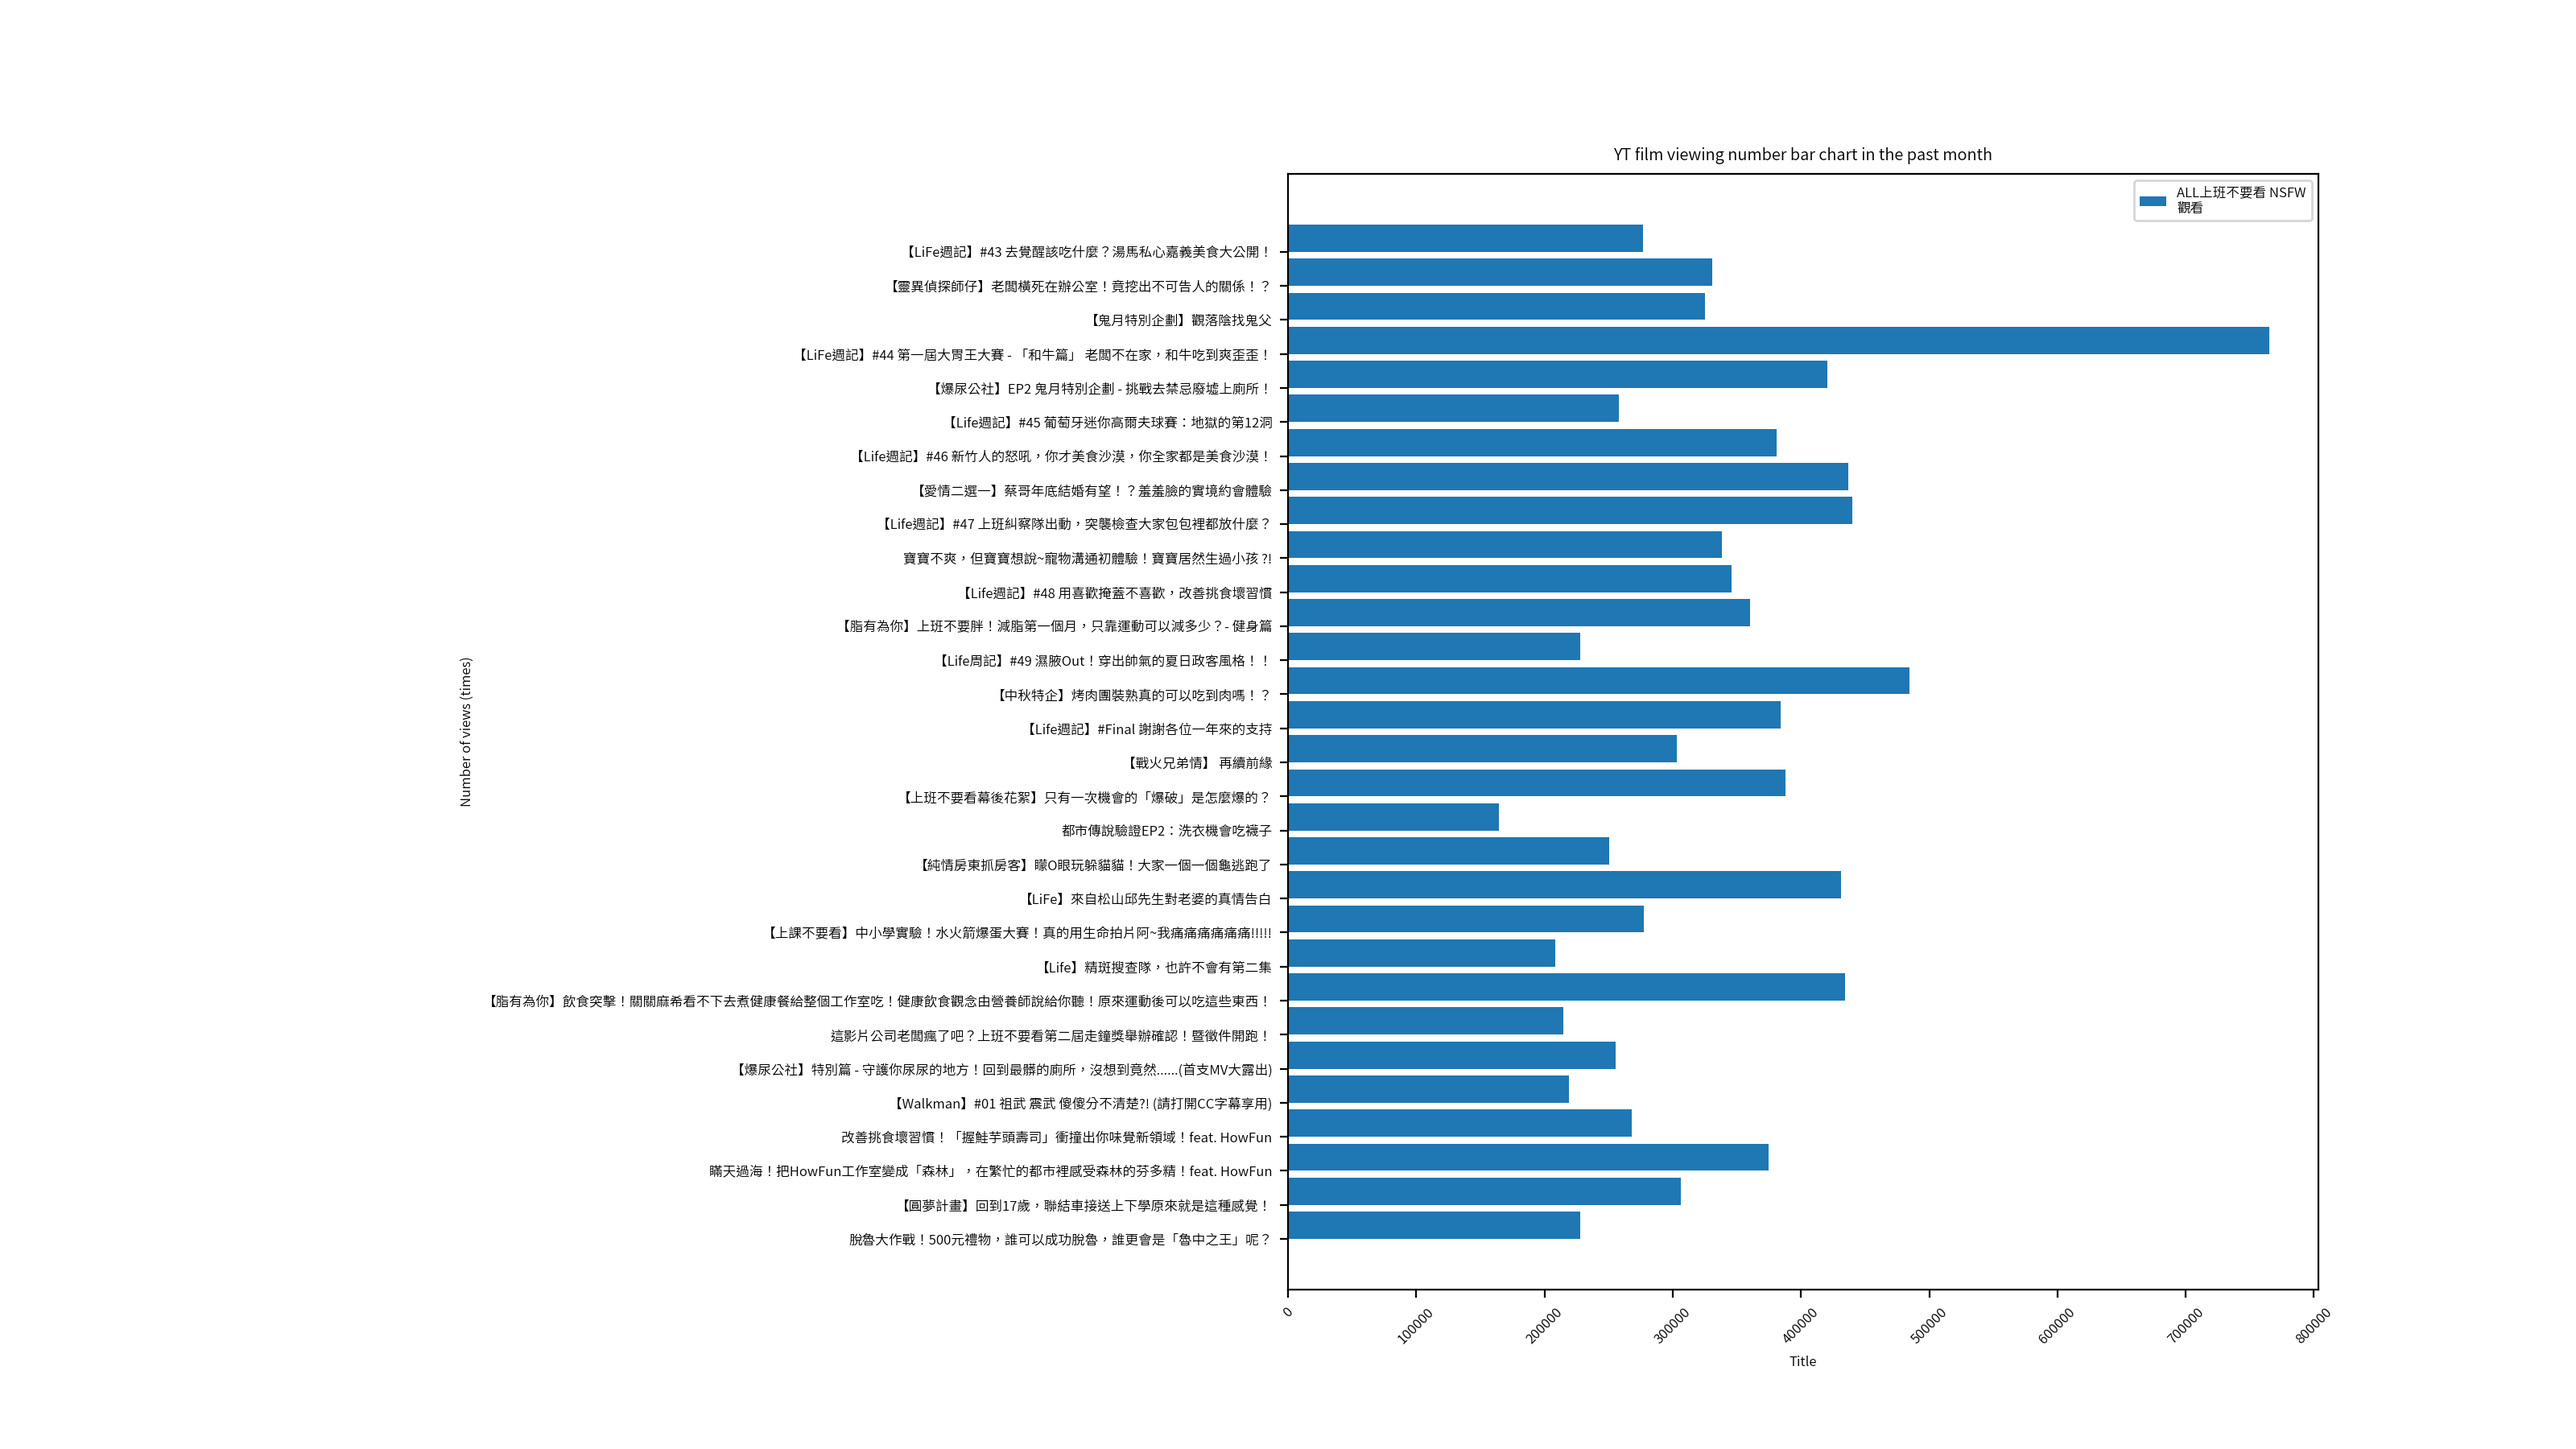
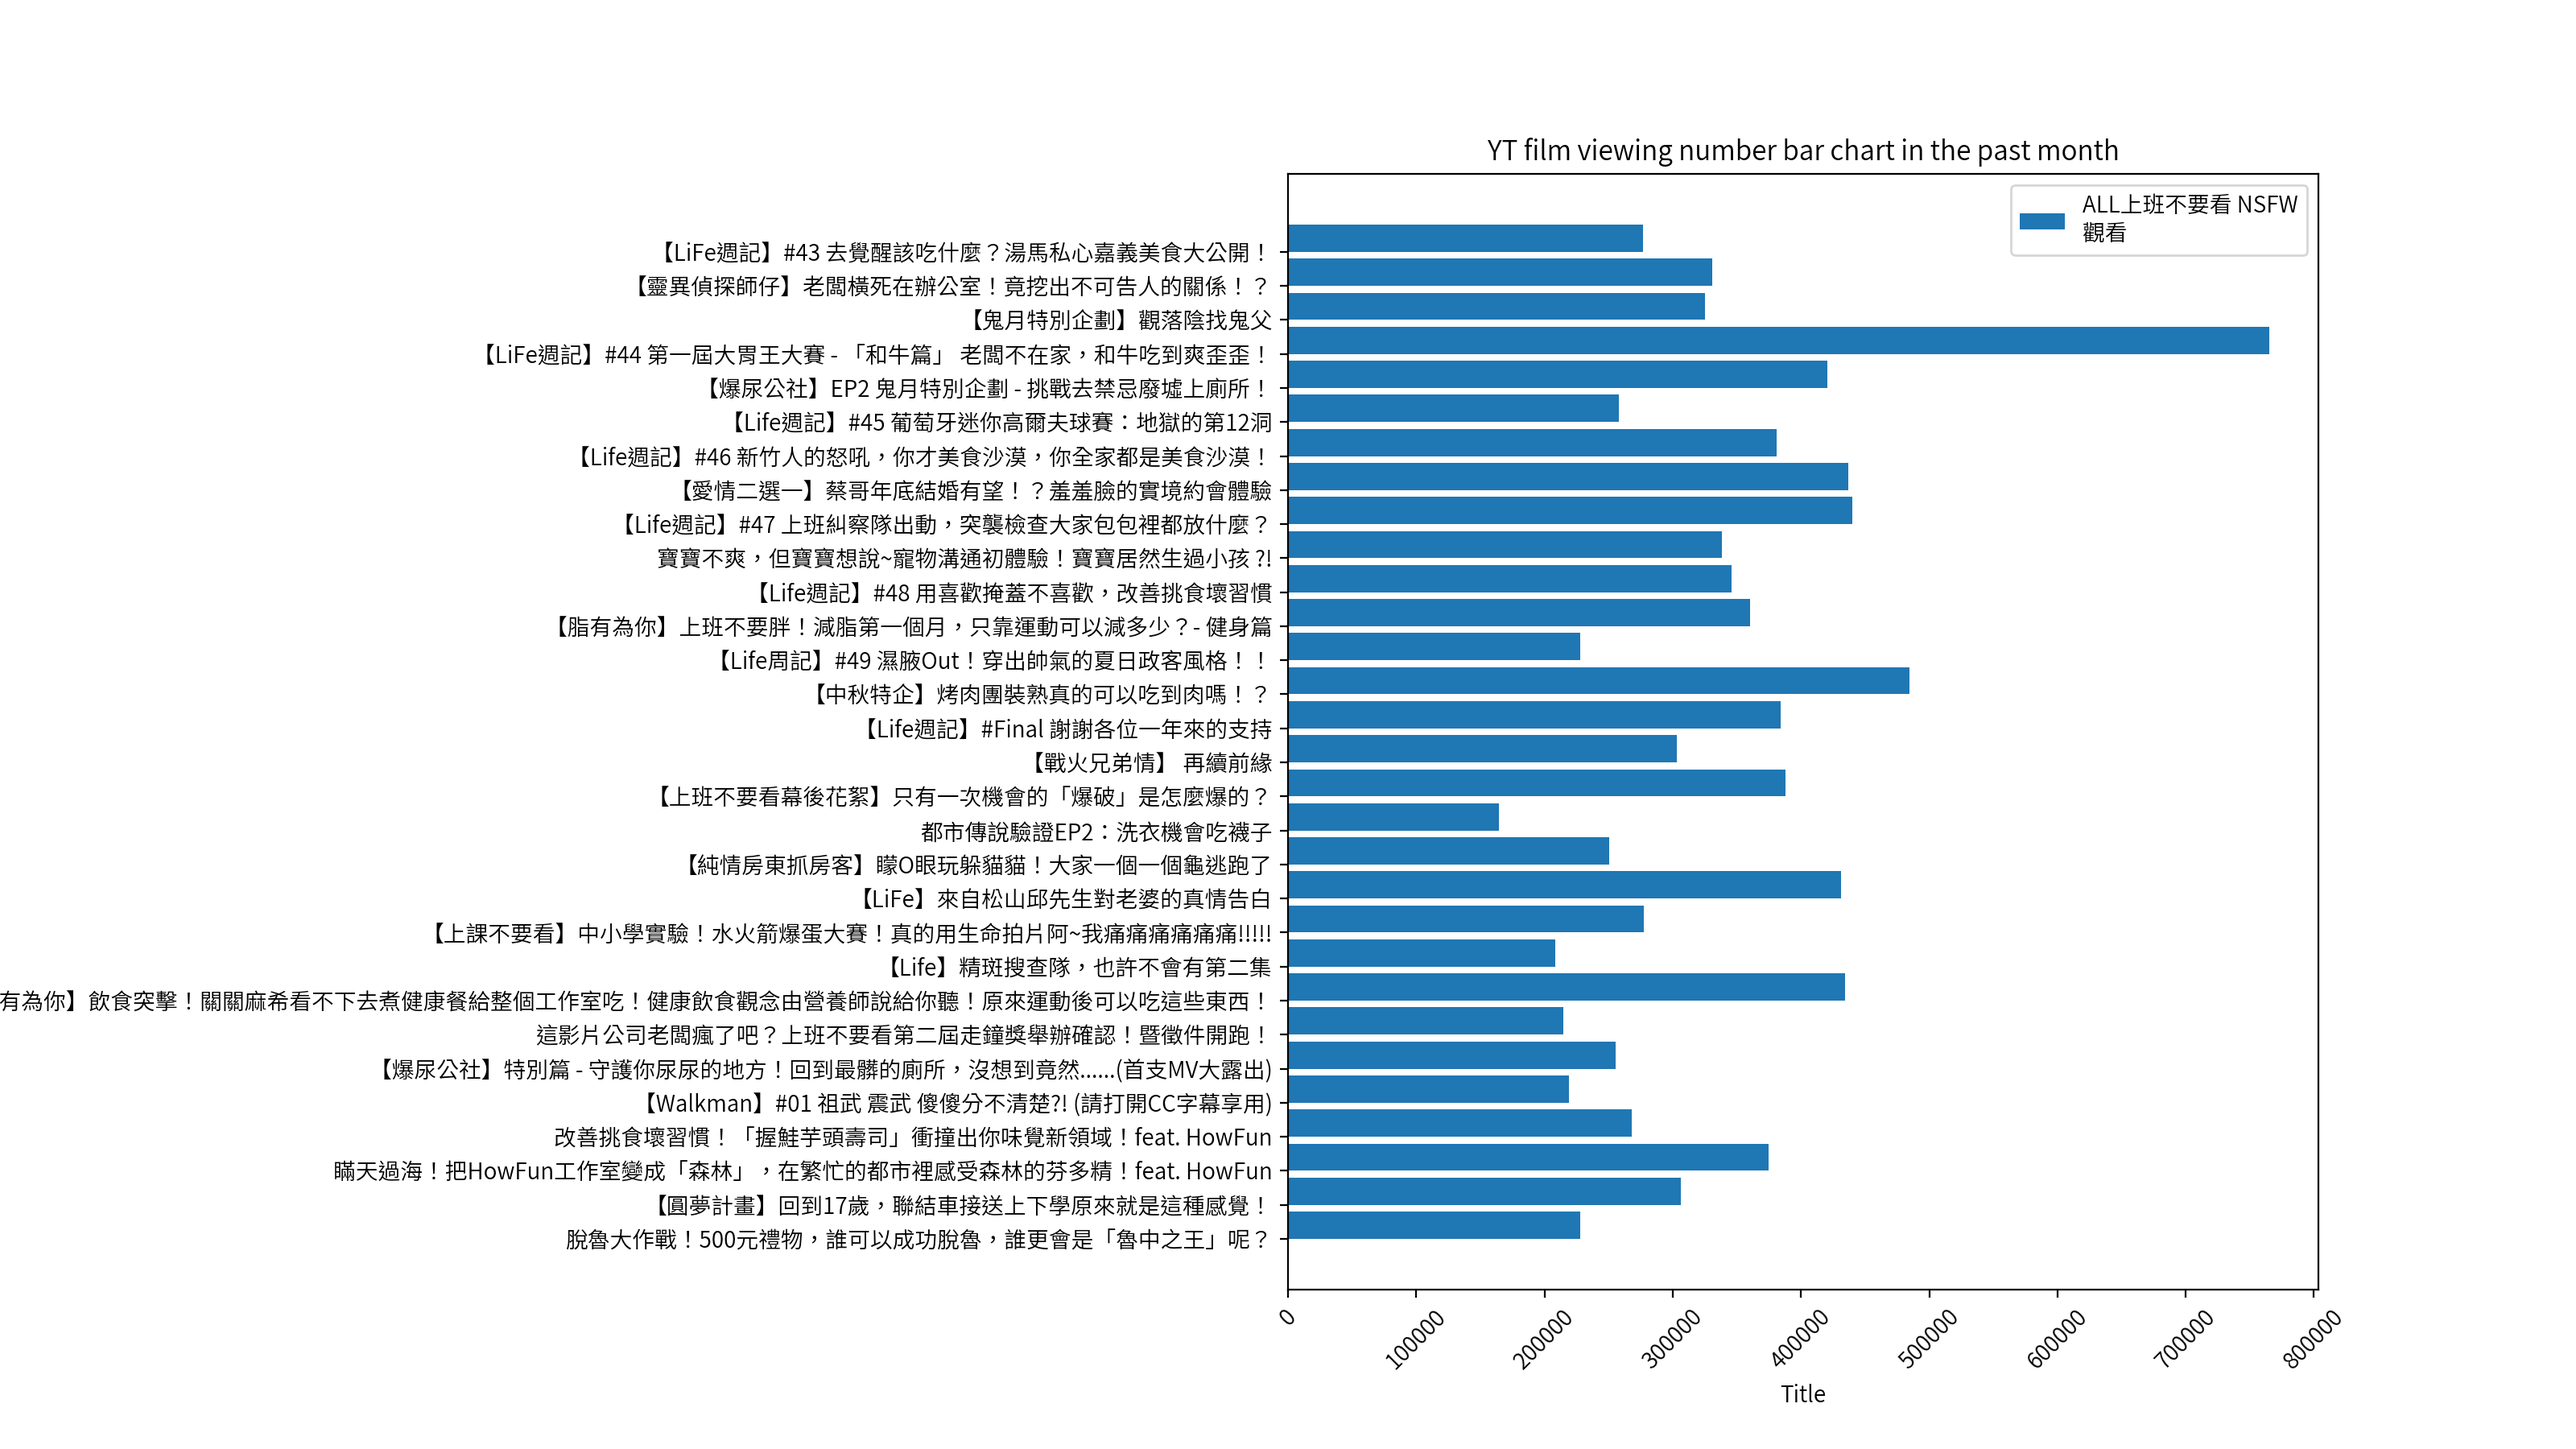
SHup20191111 Version = 22no msg!

diff --git a/yt.py b/yt.py
@@ -19,7 +19,7 @@ import requests
 from bs4 import BeautifulSoup
 import urllib
 
-FONTSIZE=6
+FONTSIZE=10
 #url="https://github.com/adobe-fonts/source-han-sans/raw/release/OTF/TraditionalChinese/SourceHanSansTC-Normal.otf"
 #ttotf = requests.get(url)
 #myfont = FontProperties(ttotf)
